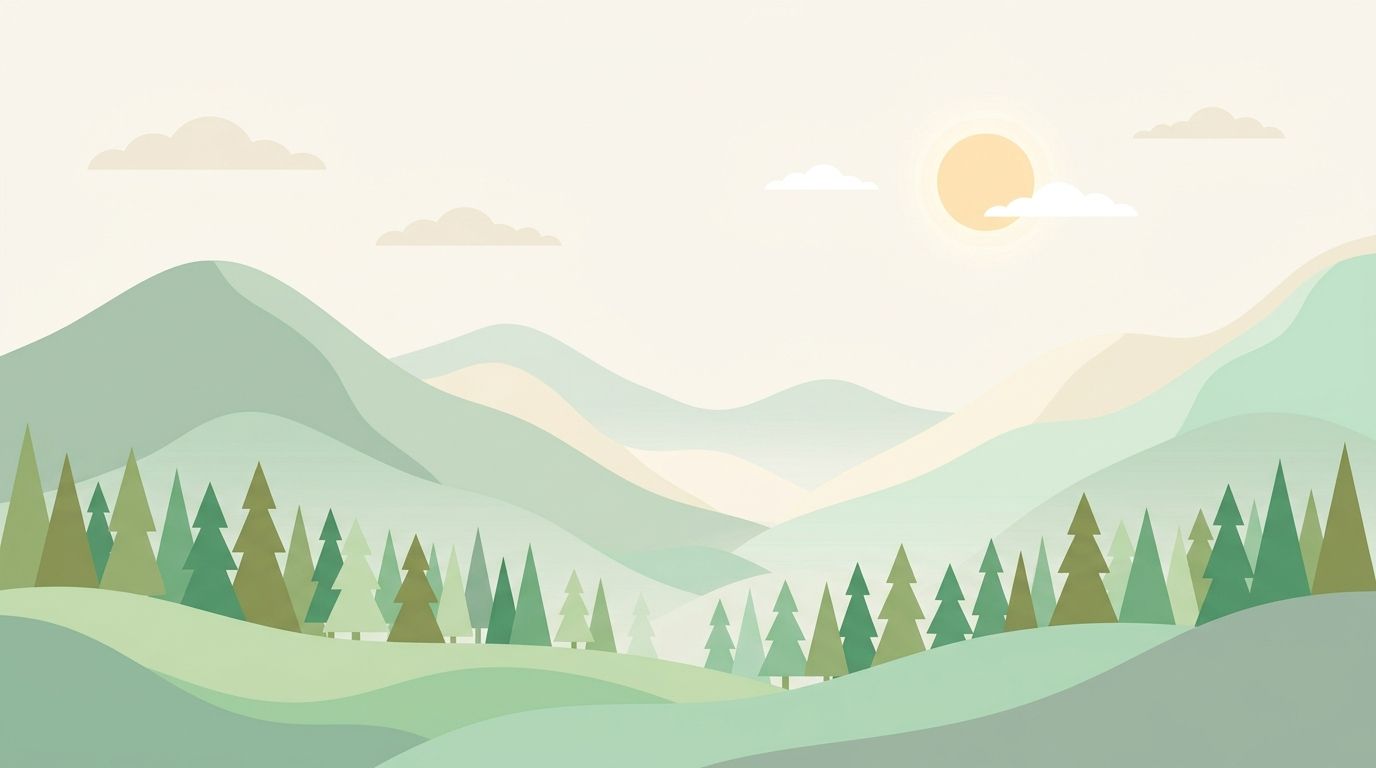
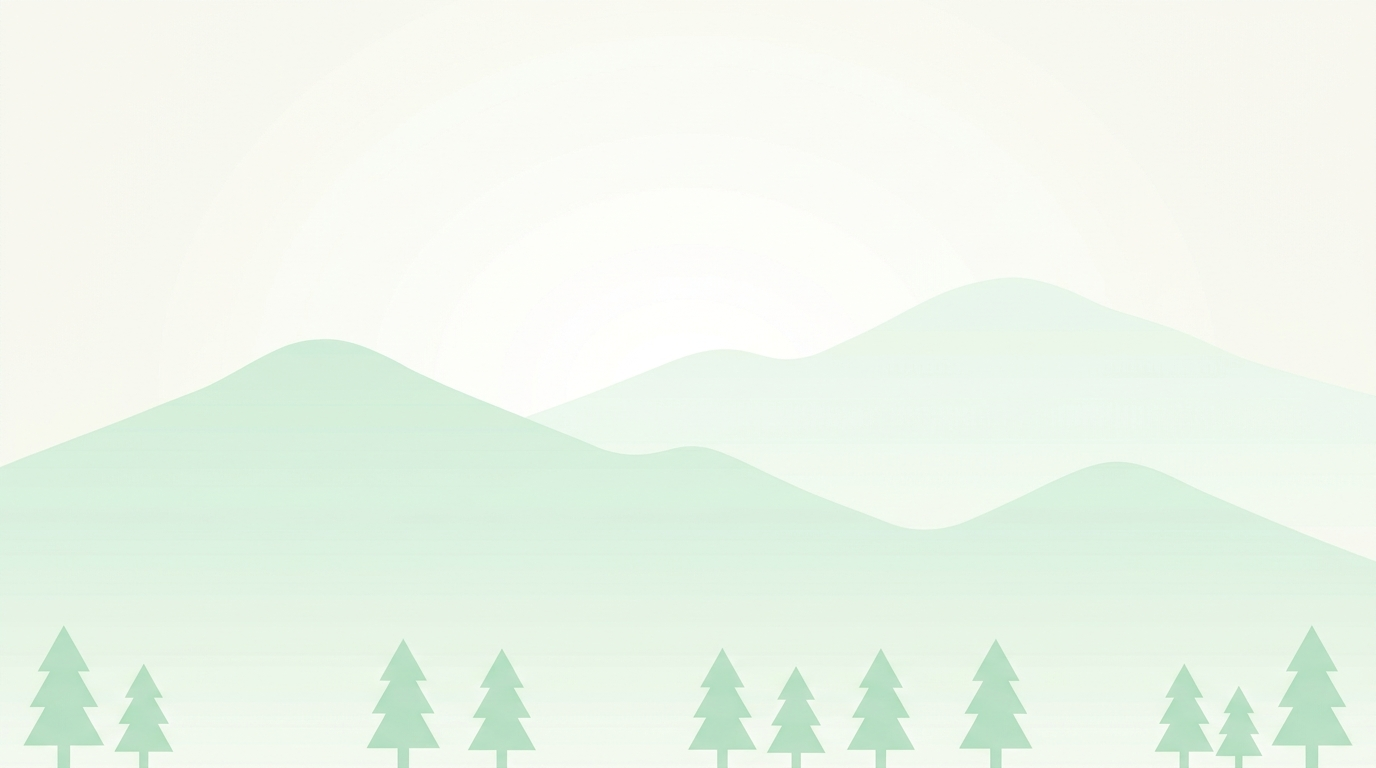
style: remake hero background to ultra-minimalist vector landscape and theme footer

diff --git a/src/app/(landing)/layout.jsx b/src/app/(landing)/layout.jsx
@@ -36,7 +36,7 @@ export default function LandingLayout({ children }) {
       <main className="flex-1">
         {children}
       </main>
-      <footer className="bg-[#76a596] text-emerald-950 pt-20 pb-12 overflow-hidden relative border-t border-[#659183]">
+      <footer className="bg-[#cde7dc] text-emerald-950 pt-20 pb-12 overflow-hidden relative border-t border-[#b8dfcc]">
         <div className="max-w-7xl mx-auto px-4 sm:px-6 lg:px-8 relative z-10">
           
           {/* Top Section */}
@@ -74,7 +74,7 @@ export default function LandingLayout({ children }) {
 
           {/* Bottom Section with Giant Brand Text */}
           <div className="pt-12 flex flex-col items-center">
-            <h2 className="text-[12vw] font-black text-white/15 tracking-tighter uppercase leading-none select-none my-8 text-center w-full">
+            <h2 className="text-[12vw] font-black text-emerald-900/10 tracking-tighter uppercase leading-none select-none my-8 text-center w-full">
               Bin&apos;Go
             </h2>
             <div className="w-full flex flex-col md:flex-row justify-between items-center gap-4 text-xs font-semibold text-emerald-900/60 pt-8 border-t border-emerald-900/10">
